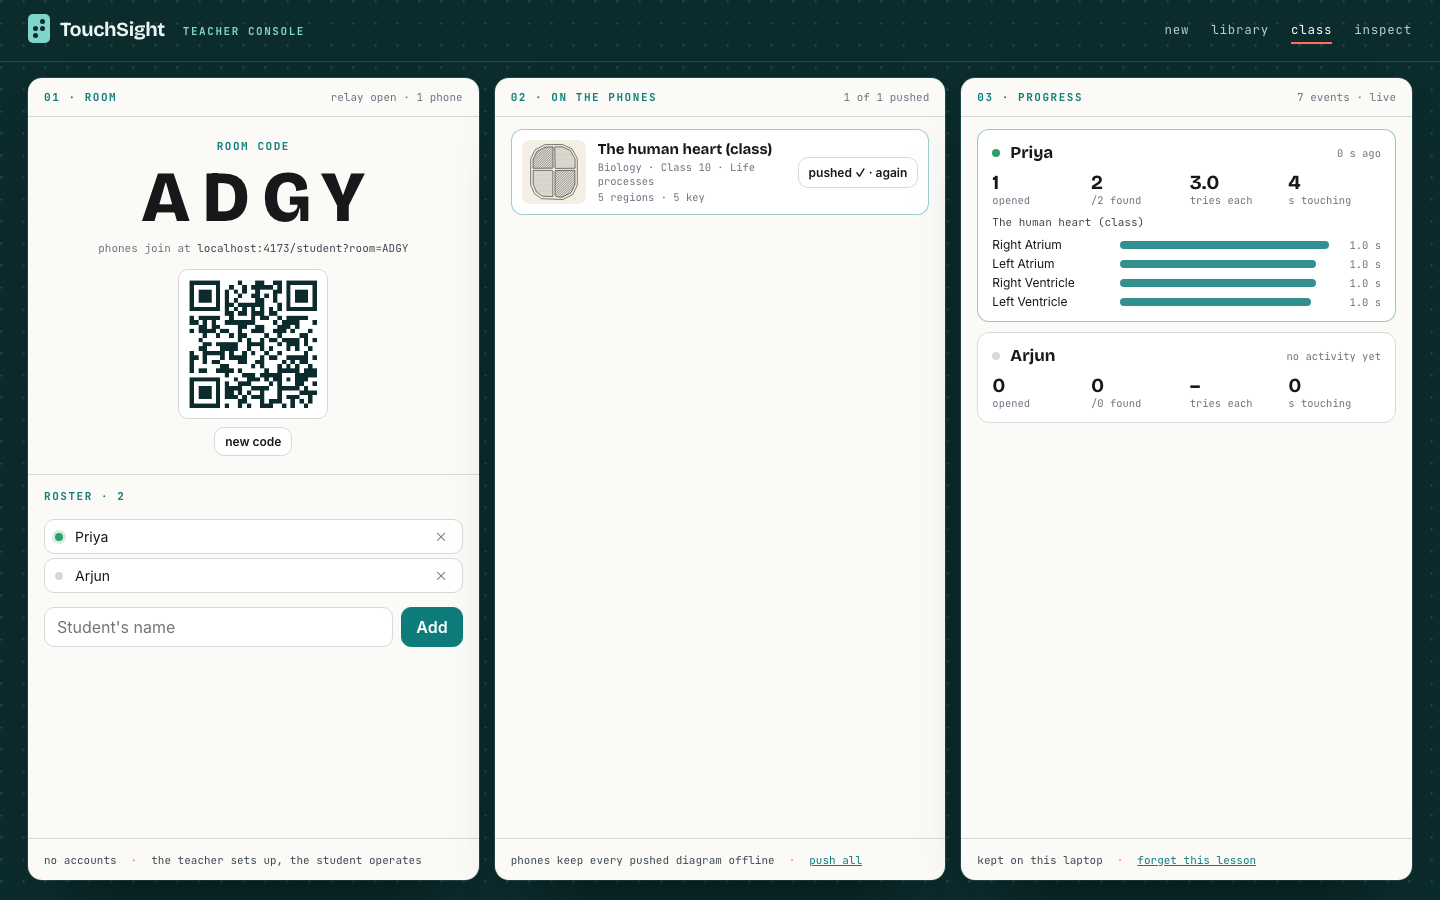
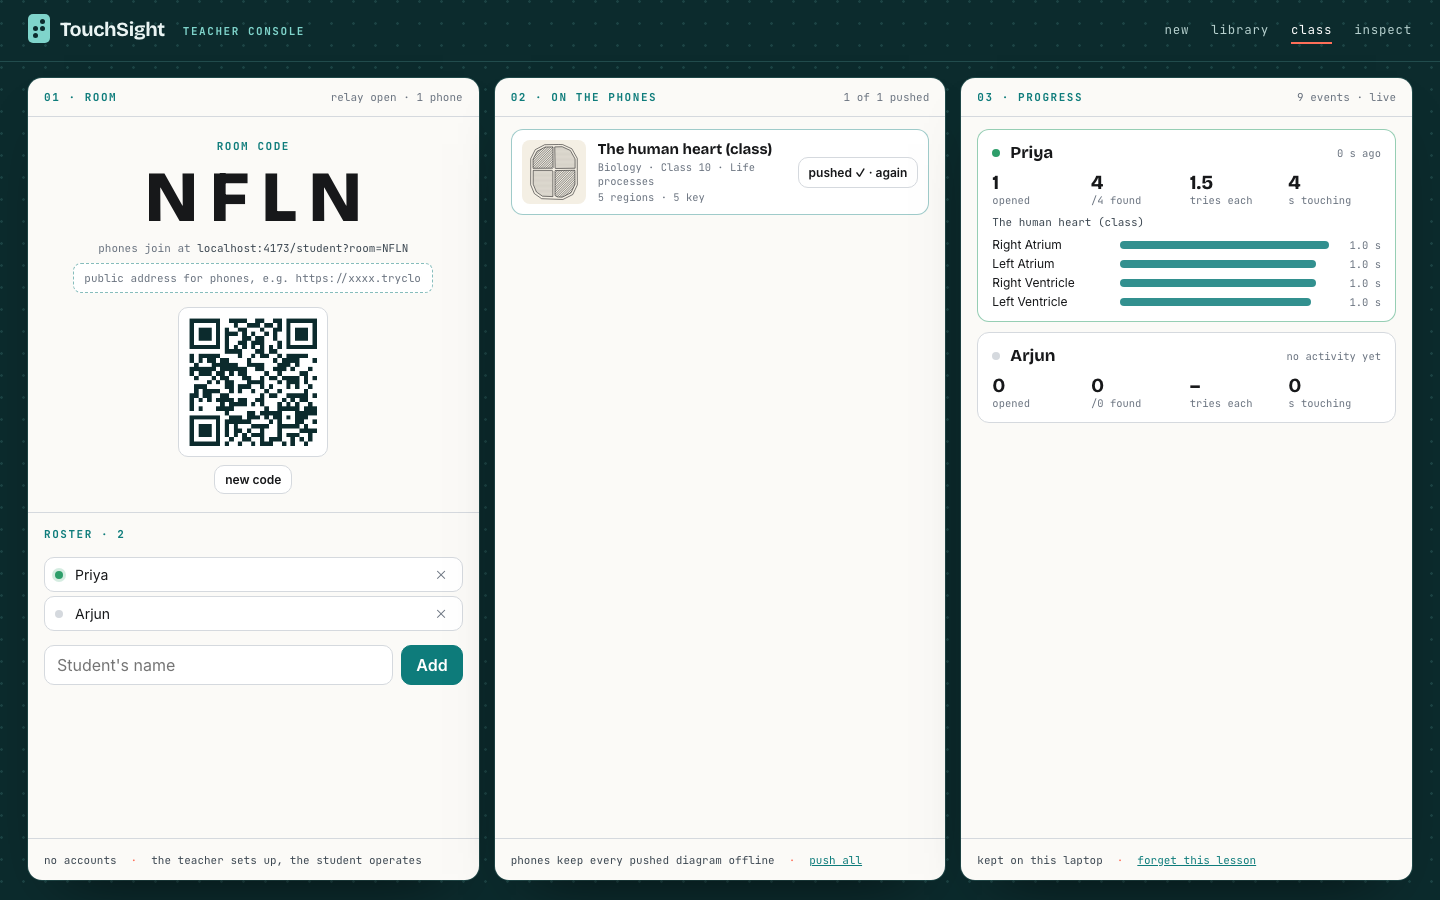
Room QR can carry the public address

diff --git a/app/src/routes/teacher/ClassView.tsx b/app/src/routes/teacher/ClassView.tsx
@@ -11,12 +11,15 @@ import { classroom, teacherRoom, setTeacherRoom, newRoomCode, type Activity, typ
  */
 
 const ROSTER_KEY = 'touchsight-roster'
+const PUBLIC_KEY = 'touchsight-public-url'
 const loadRoster = (): string[] => { try { return JSON.parse(localStorage.getItem(ROSTER_KEY) || '[]') } catch { return [] } }
 
 type Row = { id: string; tdm: Tdm; chapter: string; published: boolean }
 
 export function ClassView() {
   const [room, setRoom] = useState(teacherRoom)
+  const [pub, setPub] = useState(() => { try { return localStorage.getItem(PUBLIC_KEY) || '' } catch { return '' } })
+  const savePub = (v: string) => { setPub(v); try { localStorage.setItem(PUBLIC_KEY, v) } catch { /* ignore */ } }
   const [qr, setQr] = useState<string | null>(null)
   const [roster, setRoster] = useState<string[]>(loadRoster)
   const [draft, setDraft] = useState('')
@@ -29,7 +32,8 @@ export function ClassView() {
   const [link, setLink] = useState(classroom.state)
   const seen = useRef(new Set<string>())
 
-  const joinUrl = `${location.origin}/student?room=${room}`
+  const base = (pub.trim() ? pub.trim().replace(/\/+$/, '').replace(/^(?!https?:\/\/)/, 'https://') : location.origin)
+  const joinUrl = `${base}/student?room=${room}`
   useEffect(() => { QRCode.toDataURL(joinUrl, { margin: 1, width: 240, color: { dark: '#0c2b2d', light: '#ffffff' } }).then(setQr).catch(() => {}) }, [joinUrl])
   useEffect(() => { listDiagrams(true).then((r) => setRows(r as Row[])) }, [])
   useEffect(() => { listProgress(room).then((p) => { for (const r of p) seen.current.add(`${r.student}|${r.at}`); setActs(p.map((r) => ({ ...(r.event as Activity), student: r.student, at: r.at }))) }) }, [room])
@@ -96,6 +100,7 @@ export function ClassView() {
               <span className="kicker">Room code</span>
               <b className="cl-code">{room}</b>
               <span className="mono cl-join">phones join at <em>{joinUrl.replace(/^https?:\/\//, '')}</em></span>
+              <input className="cl-pub-url mono" value={pub} onChange={(e) => savePub(e.target.value)} placeholder="public address for phones, e.g. https://xxxx.trycloudflare.com" aria-label="public address for phones" />
               {qr && <img className="cl-qr" src={qr} alt={`QR code to join room ${room}`} />}
               <button className="btn cl-newcode" onClick={newCode}>new code</button>
             </div>

diff --git a/app/src/routes/teacher/teacher.css b/app/src/routes/teacher/teacher.css
@@ -133,6 +133,8 @@
 .cl-code-wrap .kicker { color: var(--teal); }
 .cl-code { font-family: var(--head); font-weight: 800; font-size: 72px; letter-spacing: .18em; line-height: 1; color: var(--ink); padding-left: .18em; }
 .cl-join { font-size: 11px; color: var(--muted); } .cl-join em { font-style: normal; color: var(--slate); }
+.cl-pub-url { width: 100%; max-width: 360px; padding: 7px 10px; border: 1px dashed rgba(14,124,123,.5); border-radius: 8px; background: #fff; font-size: 11px; color: var(--ink); text-align: center; }
+.cl-pub-url::placeholder { color: var(--muted); }
 .cl-qr { width: 150px; height: 150px; border-radius: 10px; border: 1px solid var(--line); background: #fff; padding: 6px; margin-top: 6px; }
 .cl-newcode { padding: 6px 10px; font-size: 12px; }
 .cl-roster { padding: 14px 16px; display: grid; align-content: start; gap: 8px; }
